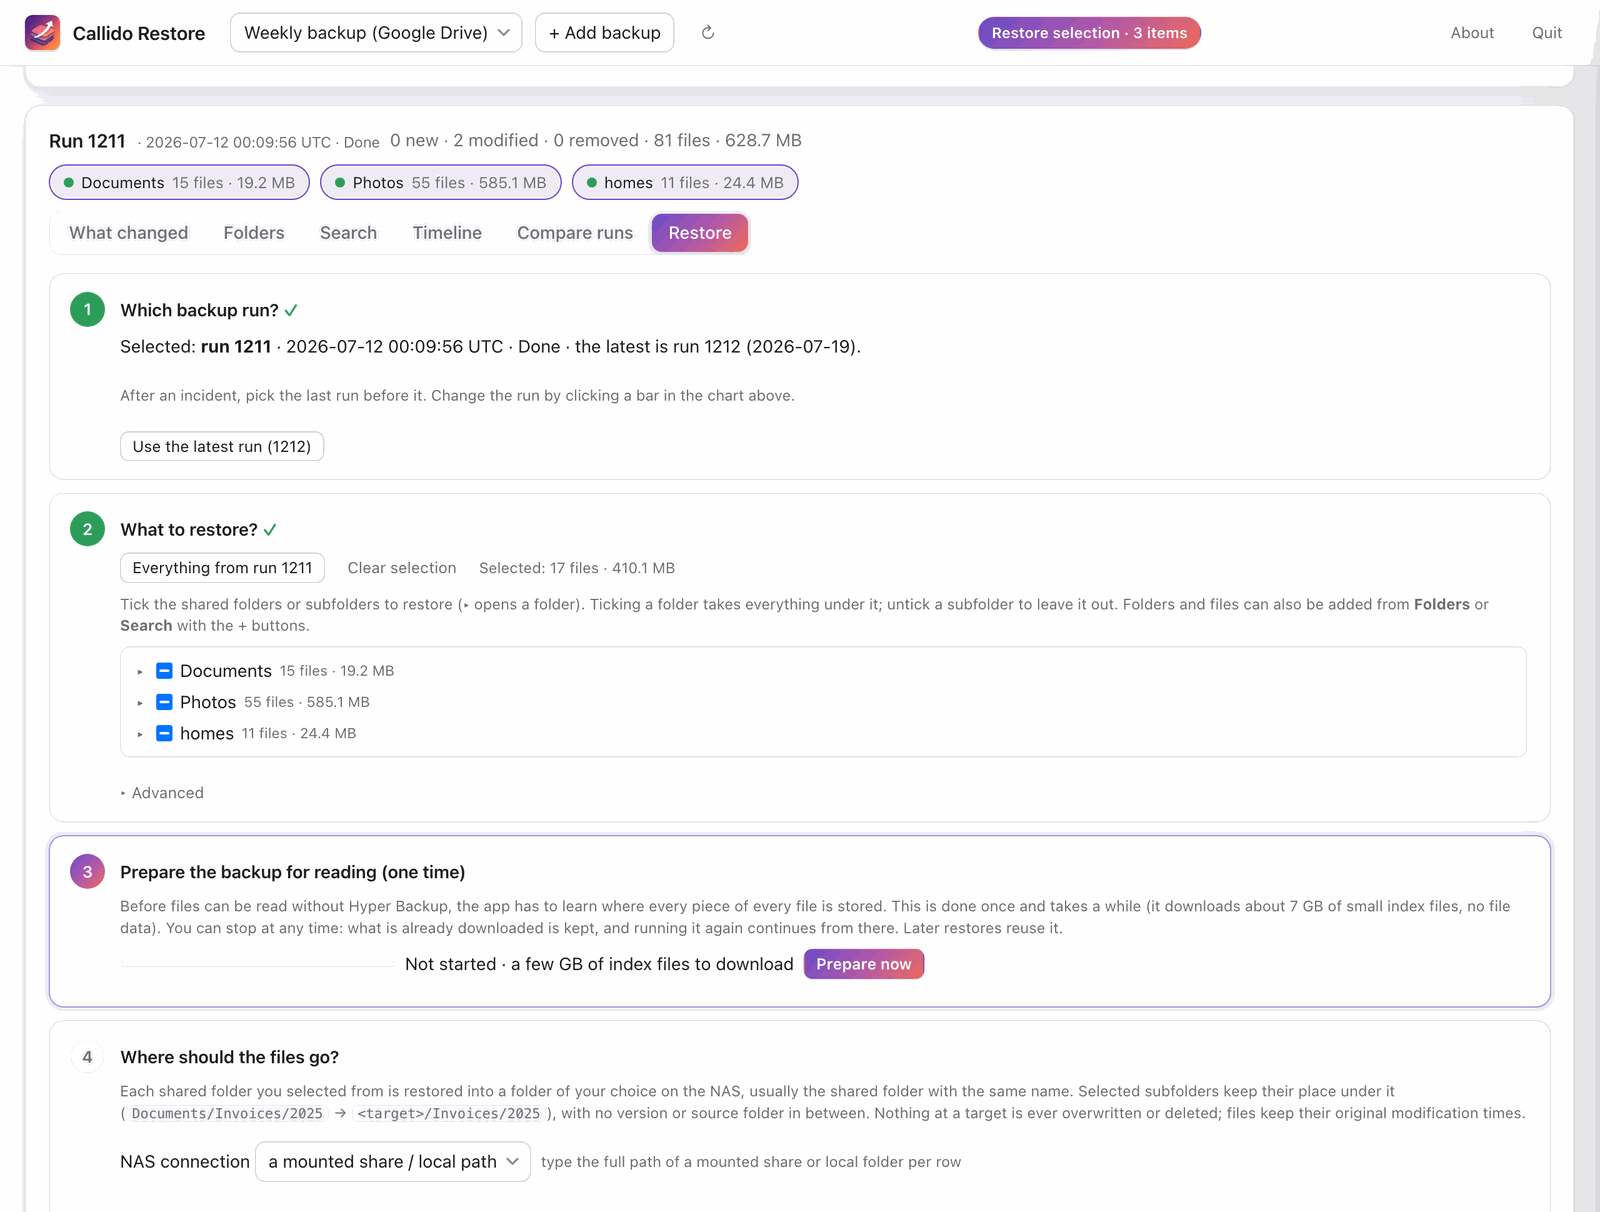
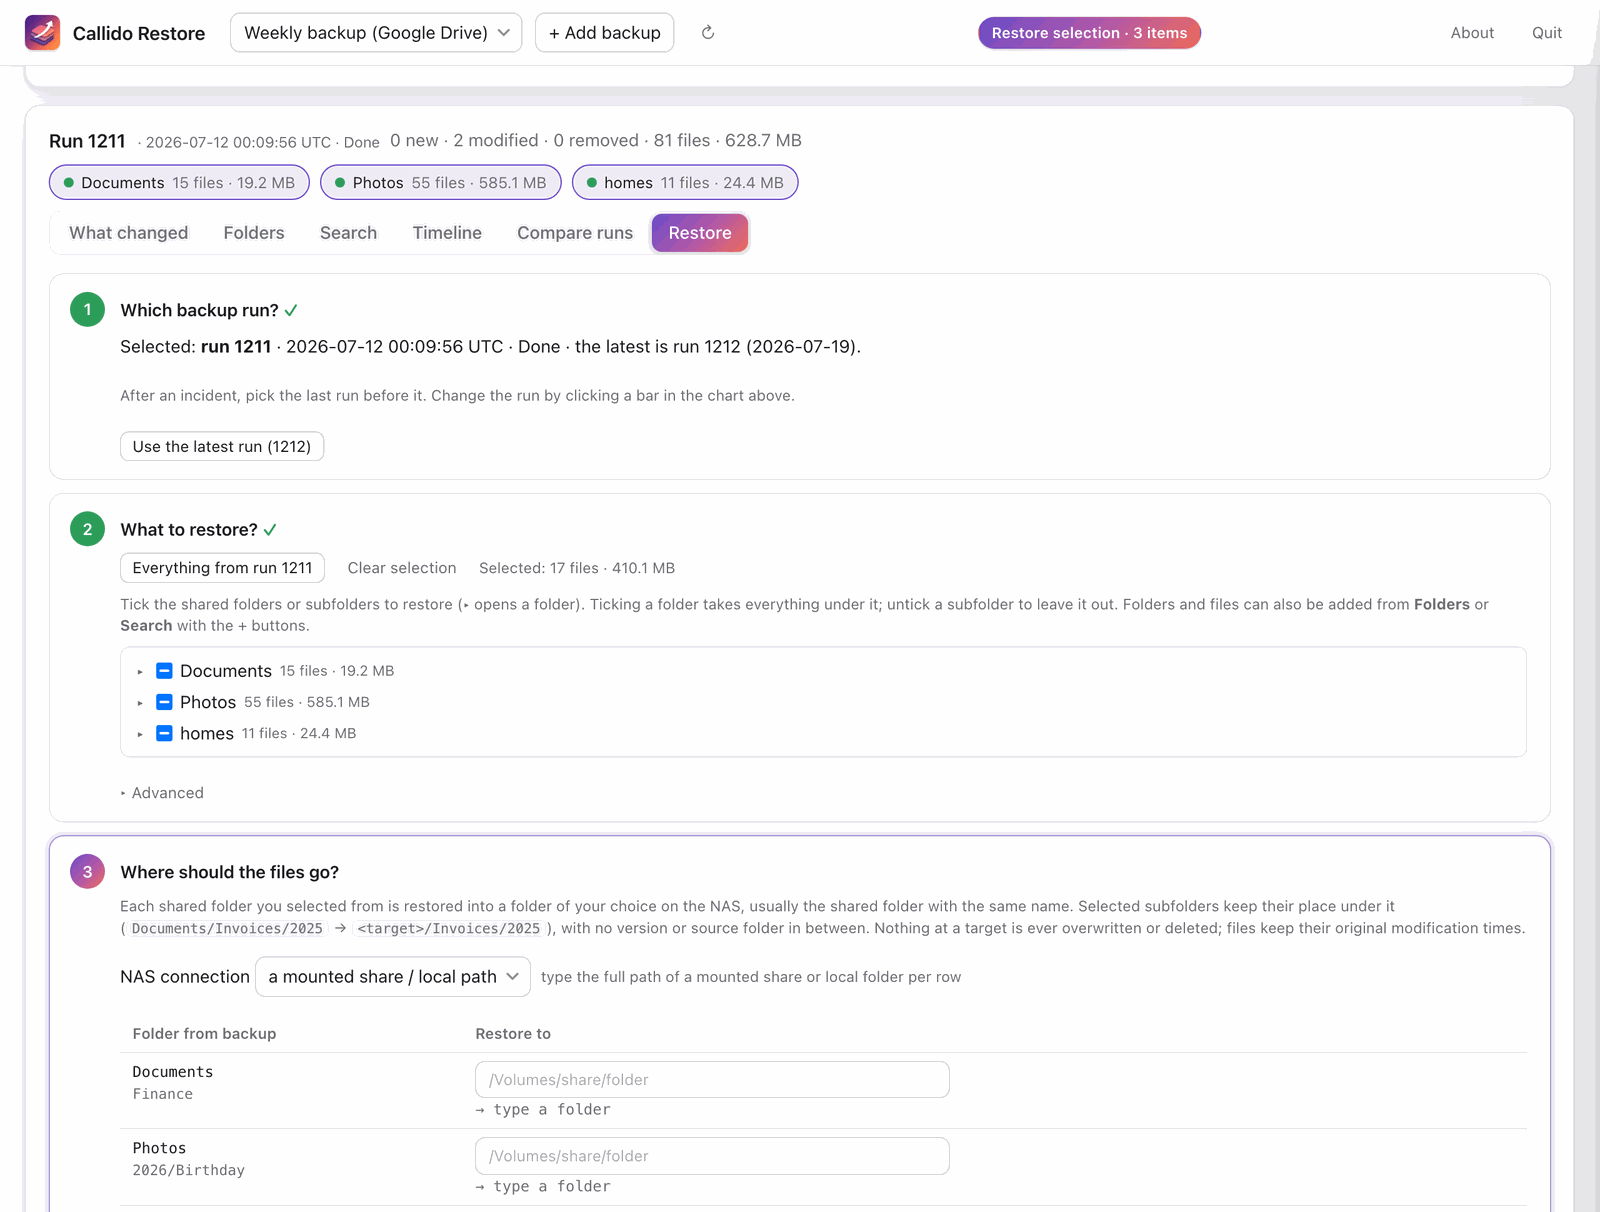
README for v1.0.0 and screenshots from the current UI (#165)
* README for v1.0.0: what it does, how a restore goes, install, limits, from source; screenshots regenerated from the current UI (no separate preparation step)

Niels: 'update screenshots of readme, they are outdated' and 'maybe update readme in general'. The README now speaks to
users first (what it does, the restore steps, install, limits) and moves the developer notes to the end; the old 'Product
goal' section with its 'Windows is a later goal' and portability notes is gone. scripts/screenshots.py runs the demo
server with HBK_NO_AUTOPREPARE=1 so the restore screenshot is not taken mid-preparation.

* screenshots: cropped and compressed (Pillow), as before

---------

Changed region(s): [[0.0625, 0.7021, 0.9375, 1.0]]

diff --git a/scripts/screenshots.py b/scripts/screenshots.py
@@ -145,7 +145,7 @@ def main():
             json.dump([{"id": "demo", "name": "Weekly backup (Google Drive)", "local": hbk, "remotes": None, "extra": []}], f)
         port = free_port(); base = f"http://127.0.0.1:{port}"
         srv = subprocess.Popen([a.python, "-m", "callido_restore", "--no-window", "--port", str(port)], cwd=ROOT,
-                               env={**os.environ, "HOME": home}, stdout=subprocess.DEVNULL, stderr=subprocess.DEVNULL)
+                               env={**os.environ, "HOME": home, "HBK_NO_AUTOPREPARE": "1"}, stdout=subprocess.DEVNULL, stderr=subprocess.DEVNULL)
         try:
             for _ in range(50):
                 try: api(base, "/api/sources"); break

diff --git a/README.md b/README.md
@@ -1,18 +1,22 @@
 <img src="assets/logo.png" width="96" align="left" alt="Callido Restore logo">
 
-# Callido Restore (macOS and Windows)
+# Callido Restore
 
-Restore Synology Hyper Backup (.hbk) files.
+Restore files from a Synology Hyper Backup, without Hyper Backup. For macOS and Windows.
 
 <br clear="left">
 
-Browse a Synology **Hyper Backup** (`.hbk`) on a timeline and restore files from it **without** Hyper Backup or a working NAS.
-Works on a `.hbk` that sits on Google Drive (or any rclone remote), on a NAS share over SMB, or on a local disk, complete or partial.
-Built after a ransomware incident; the backup's own metadata databases are read directly, only the data you restore is downloaded.
+Callido Restore opens a Synology **Hyper Backup** (`.hbk`) and lets you browse every backup run on a timeline, find what changed,
+and restore the files you need to a NAS or a local folder. It works **without** Hyper Backup and **without** a working NAS: the
+backup can sit on Google Drive (or any rclone remote), on a NAS share, or on a local disk, complete or partial.
+
+It was built after a ransomware incident, for exactly that situation: find the last clean backup run, and get the files back.
+The app reads the backup's own metadata directly and downloads only the data you restore.
 
 ## How it looks
 
-Every backup run on a timeline: files new, modified and removed per run. A burst of red and blue at the end is what an incident looks like.
+Every backup run on a timeline: files new, modified and removed per run. A burst of red and blue at the end is what an incident
+looks like.
 
 ![Timeline of backup runs, the incident run selected](docs/screenshots/overview.png)
 
@@ -22,34 +26,41 @@ Every backup run on a timeline: files new, modified and removed per run. A burst
 <td width="50%"><b>Browse the last clean run</b> and add folders or single files to the restore.<br><img src="docs/screenshots/browse.png" alt="Folder browser of the last clean run"></td>
 </tr>
 <tr>
-<td width="50%"><b>Restore selection.</b> Always visible, with file counts and sizes, items can be removed again.<br><img src="docs/screenshots/basket.png" alt="Restore selection panel"></td>
-<td width="50%"><b>Restore wizard.</b> Run, selection, one-time preparation, one target folder per shared folder.<br><img src="docs/screenshots/restore.png" alt="Restore wizard"></td>
+<td width="50%"><b>Restore selection.</b> Always visible, with file counts and sizes; items can be removed again.<br><img src="docs/screenshots/basket.png" alt="Restore selection panel"></td>
+<td width="50%"><b>Restore.</b> Pick the run, the folders, and one target folder per shared folder.<br><img src="docs/screenshots/restore.png" alt="Restore steps"></td>
 </tr>
 </table>
 
-The pictures show a small demo backup (`scripts/make_demo_backup.py`); `scripts/screenshots.py` regenerates them.
+The pictures show a small demo backup with made-up names (`scripts/make_demo_backup.py`); `scripts/screenshots.py` regenerates them.
 
-## Product goal
+## What it does
 
-A macOS and Windows app anyone can use to restore a Synology Hyper Backup (`.hbk`) without Hyper Backup.
-Google Drive is the first source; other sources come later. macOS (Apple silicon and Intel) and Windows 10/11 (x64) are built from the same code.
+* **Every backup run on a timeline**, with the files new, modified and removed in each run, a per-run list of changes, a file
+  timeline, a folder browser, search, and a comparison of two runs.
+* **Finds the damage.** Ransomware-encrypted copies (for example `.L0CK3D`) and ransom notes are flagged, and suspicious files
+  (scripts, double extensions, changed timestamps) can be searched for.
+* **Restores what you pick**: everything from a run, whole shared folders, subfolders or single files, back into the original
+  shares on a NAS, into a folder of your choice, or to a local path.
+* **Never overwrites or deletes.** Files already at the target are skipped, and a target inside the backup itself is refused.
+  After a restore, every file is reported as verified, restored from an identical copy, or unverified.
+* **Survives long restores.** If the computer sleeps, the network drops or the app is closed, press **Continue** on the earlier
+  restore: it resumes at the next file.
+* **Downloads only what it needs** from Google Drive, with your own Google key for speed if you like (the app explains how to get
+  one in five minutes).
 
-1. A wizard sets up access to the source: rclone Google Drive auth, including your own Google client id and secret (rclone's shared client id is being retired).
-2. Pick the backup, then browse a timeline per folder. The latest run (highest version id, regardless of status) is selected by default; pick the last clean run before an incident.
-3. Select the folders to restore.
-4. Restore to a destination on a NAS, into a new/empty folder; existing NAS data is never overwritten or deleted. A wizard explains how to prepare the NAS: an SMB share, a user and its permissions, or another protocol.
+## How a restore goes
 
-Packaging as a `.app` / `.dmg` ([T3](docs/TASKS.md)) and a Windows `.msi` ([T14](docs/TASKS.md), [docs/WINDOWS.md](docs/WINDOWS.md)) is what makes it usable by everyone.
+1. **Add the backup.** Connect Google Drive (a browser window opens for the Google sign-in; read access only), a NAS over SMB, or
+   pick a folder on this computer, then choose the folder whose name ends in `.hbk`.
+2. **Pick the backup run.** The latest run is selected; after an incident, click the last clean run in the chart.
+3. **Load the file lists** of the shared folders you need (one click per share, or all at once). Backups that carry their own
+   chunk table are ready to restore right away; older ones get a one-time preparation that runs by itself in the background.
+4. **Select what to restore** in the tree, or with the + buttons in Folders and Search.
+5. **Choose where it goes.** Connect the NAS once (address, user, password) and pick a target folder per shared folder. A saved
+   NAS connection can be edited later, for example when its address changes.
+6. **Start the restore** and follow it in the progress bar.
 
-**Portability:** avoid needless macOS-only choices (hardcoded paths, `/Volumes` assumptions, macOS-only packaging steps) so a Windows build stays feasible.
-
-* Timeline of every backup run (new/modified/removed), per-run changes, file timeline by mtime/ctime, folder browser, search with
-  suspicious-file flags, version compare, single-file download.
-* Restore wizard: pick a run, pick everything or folders, choose the target (back into the original NAS shares (existing files are skipped, never overwritten), a folder on a share,
-  or a local path). Files already at the target are skipped, never overwritten or deleted, and a target inside the backup is refused. Resilient: retries, parallel prefetch, pause/resume, survives restarts.
-* Detects ransomware-encrypted copies (`.L0CK3D`) and reports them as unreadable.
-
-Requires no client-side encryption on the backup task (encrypted tasks are not supported yet).
+The [user guide](docs/USER-GUIDE.md) has the details.
 
 ## Install
 
@@ -66,16 +77,41 @@ SmartScreen shows "Windows protected your PC": click *More info* → *Run anyway
 `C:\Program Files\Callido\Callido Restore` with a Start menu and desktop shortcut, opens in its own window (Microsoft Edge
 WebView2, built into Windows 11 and current Windows 10) and is removed under Settings → Apps.
 
-Settings, caches and `app.log` live in `~/.hbk-explorer/` (on Windows `%USERPROFILE%\.hbk-explorer`); uninstalling keeps them.
-Or from source: `python3 -m venv .venv && .venv/bin/pip install -r requirements.txt && .venv/bin/python -m callido_restore`
-(Windows: `py -m venv .venv`, `.venv\Scripts\pip install -r requirements.txt`, `.venv\Scripts\python -m callido_restore`). This
-opens the app window; add `--browser` to use your browser instead.
-`rclone` is bundled in the app (MIT; `rclone-COPYING` and `THIRD-PARTY-NOTICES.txt` are inside the app under `Contents/Resources/Licenses/` and on the disk image, on Windows under `_internal\Licenses\` in the install folder). From source, install rclone with Homebrew (macOS) or `winget install Rclone.Rclone` (Windows).
-The logo is original artwork made for this project (see `assets/README.md`); the app is not affiliated with Synology.
+Settings, caches and `app.log` live in `~/.hbk-explorer/` (on Windows `%USERPROFILE%\.hbk-explorer`); updating or uninstalling the
+app keeps them, and so keeps your connections and earlier restores.
+
+## Limits
+
+* Backup tasks with **client-side encryption** are not supported yet.
+* Backups **without their own chunk table** are restored through a map the app infers once; on a real backup it covers most of
+  the data, and files it cannot place are reported, never guessed.
+* The apps are **not signed** yet (no Apple notarization, no Windows code-signing certificate), hence the first-start steps above.
+* Keep the computer **awake and plugged in** during a long restore; if it stops, press Continue.
+
+## From source
+
+```
+python3 -m venv .venv && .venv/bin/pip install -r requirements.txt && .venv/bin/python -m callido_restore
+```
+
+On Windows: `py -m venv .venv`, `.venv\Scripts\pip install -r requirements.txt`, `.venv\Scripts\python -m callido_restore`.
+This opens the app window; add `--browser` to use your browser instead. Install rclone with Homebrew (macOS) or
+`winget install Rclone.Rclone` (Windows). Tests: `python -m unittest discover -s tests -t .`.
+
+Packaging: `./build_app.sh` builds the macOS `.app` and `.dmg`, `packaging/windows/build_msi.py` the Windows `.msi`
+([docs/WINDOWS.md](docs/WINDOWS.md)).
 
 ## Docs
-`docs/USER-GUIDE.md`, `docs/FORMAT.md` (the reverse-engineered format), `docs/ARCHITECTURE.md`, `docs/HANDOVER.md`, `docs/TASKS.md`.
 
-MIT licensed. Not affiliated with or endorsed by Synology. Hyper Backup is a trademark of Synology Inc.
+[User guide](docs/USER-GUIDE.md) · [the reverse-engineered backup format](docs/FORMAT.md) · [architecture](docs/ARCHITECTURE.md) ·
+[Windows build](docs/WINDOWS.md) · [tasks](docs/TASKS.md) · [handover notes](docs/HANDOVER.md)
+
+## Licence and credits
+
+MIT licensed, © Callido B.V. rclone is bundled (MIT; `rclone-COPYING` and `THIRD-PARTY-NOTICES.txt` are inside the app under
+`Contents/Resources/Licenses/` and on the disk image, on Windows under `_internal\Licenses\` in the install folder). The logo is
+original artwork made for this project (see `assets/README.md`).
+
+Not affiliated with or endorsed by Synology. Hyper Backup is a trademark of Synology Inc.
 
 Made by [Callido](https://callido.nl) · [callido.nl](https://callido.nl) · [callido.dev](https://callido.dev)
